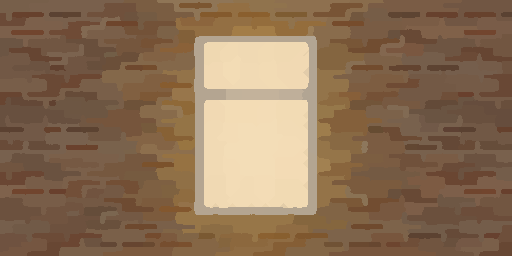
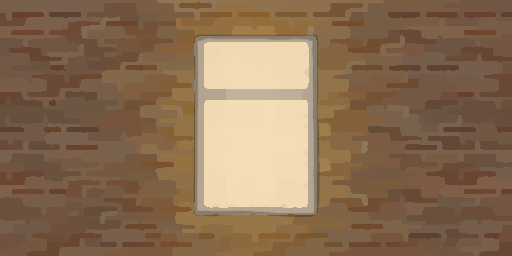
Dynamically placing roof tiles

Changed region(s): [[0.375, 0.125, 0.625, 0.8438]]

diff --git a/SFML Template 3.0.01(working)1/SFML Template 3.0.01(working)1/level.cpp b/SFML Template 3.0.01(working)1/SFML Template 3.0.01(working)1/level.cpp
@@ -5,14 +5,14 @@ static int levelTemplate[Level::Height][Level::Width] =
     { 0,0,0,0,0,0,0,0,0,0,0,0,0,0,0,0,0,0,0,0,0,0,0,0,0,0,0,0,0,0,0,0,0,0,0,0,0,0,0,0,0,0,0,0,0,0,0,0,0,0 },
     { 0,0,0,0,0,0,0,0,0,0,0,0,0,0,0,0,0,0,0,0,0,0,0,0,0,0,0,0,0,0,0,0,0,0,0,0,0,0,0,0,0,0,0,0,0,0,0,0,0,0 },
     { 0,0,0,0,0,0,0,0,0,0,0,0,0,0,0,0,0,0,0,0,0,0,0,0,0,0,0,0,0,0,0,0,0,0,0,0,0,0,0,0,0,0,0,0,0,0,0,0,0,0 },
-    { 0,0,0,0,0,0,0,0,2,2,3,2,2,3,2,2,0,2,2,3,2,3,3,2,2,0,0,0,0,0,0,0,0,0,0,0,0,0,0,0,0,0,0,0,0,0,0,0,0,0 },
-    { 0,0,0,0,0,0,0,0,2,2,3,2,2,3,2,2,0,2,2,3,2,2,3,2,2,2,3,2,2,3,2,0,0,0,0,0,0,0,0,0,0,0,0,0,0,0,0,0,0,0 },
+    { 0,0,0,0,0,0,0,0,2,2,3,2,2,3,2,2,0,2,2,3,2,3,3,2,2,0,0,0,0,0,0,0,0,0,0,2,2,3,2,2,3,2,2,0,0,0,0,0,0,0 },
+    { 0,0,0,0,0,0,0,0,2,2,3,2,2,3,2,2,0,2,2,3,2,2,3,2,2,2,3,2,2,3,2,0,0,0,0,2,2,3,3,2,3,2,2,0,0,0,0,0,0,0 },
     { 0,0,0,0,0,0,0,0,0,0,0,0,0,0,0,0,0,2,2,3,2,2,3,2,2,2,3,2,2,3,2,2,3,2,0,2,2,3,2,2,3,2,2,0,0,0,0,0,0,0 },
     { 1,1,1,1,1,1,1,1,1,1,1,1,1,1,1,1,1,1,1,1,1,1,3,2,2,2,3,2,2,3,2,2,3,2,0,2,2,3,2,2,3,2,2,0,0,0,0,0,0,0 },
     { 0,0,0,0,0,0,0,0,0,0,0,0,0,1,0,0,0,0,0,0,0,0,0,0,0,0,0,0,0,0,0,0,0,0,0,2,2,3,2,2,3,2,2,0,0,0,0,0,0,0 },
-    { 0,0,0,0,0,0,0,0,1,0,0,0,0,1,0,1,1,1,1,0,0,0,0,0,0,0,0,2,2,3,2,2,3,2,0,0,0,0,0,0,0,0,0,0,0,0,0,0,0,0 },
-    { 0,0,0,0,0,0,0,0,1,0,0,0,0,1,0,1,0,0,0,0,0,0,0,0,0,0,0,0,0,0,0,0,0,0,0,0,0,0,0,0,0,0,0,0,0,0,0,0,0,0 },
-    { 0,0,0,0,0,0,0,0,1,0,0,0,0,1,0,1,0,0,0,0,0,0,0,0,0,0,0,0,0,0,0,0,0,0,0,0,0,0,0,0,0,0,0,0,0,0,0,0,0,0 },
+    { 0,0,0,0,0,0,0,0,1,0,0,0,0,1,0,1,1,1,1,0,0,0,0,0,0,0,3,2,2,3,2,2,3,2,0,2,2,3,2,2,3,2,2,0,0,0,0,0,0,0 },
+    { 0,0,0,0,0,0,0,0,1,0,0,0,0,1,0,1,0,0,0,0,0,0,0,0,0,0,3,2,2,3,2,2,3,2,0,2,2,3,2,2,3,2,2,0,0,0,0,0,0,0 },
+    { 0,0,0,0,0,0,0,0,1,0,0,0,0,1,0,1,0,0,0,0,0,0,0,0,0,0,3,2,2,3,2,2,3,2,2,2,2,3,2,2,3,2,2,0,0,0,0,0,0,0 },
     { 0,0,0,0,0,0,0,0,0,0,0,0,0,1,0,1,0,0,0,0,0,0,0,0,0,0,0,0,0,0,0,0,0,0,0,0,0,0,0,0,0,0,0,0,0,0,0,0,0,0 },
     { 0,0,0,0,0,0,0,0,0,0,1,1,1,1,0,1,0,0,0,0,0,0,0,0,0,0,0,0,0,0,0,0,0,0,0,0,0,0,0,0,0,0,0,0,0,0,0,0,0,0 },
     { 0,0,0,0,0,0,1,1,1,0,0,0,0,0,0,1,0,0,0,0,0,0,0,0,0,0,0,0,0,0,0,0,0,0,0,0,0,0,0,0,0,0,0,0,0,0,0,0,0,0 },
@@ -45,6 +45,8 @@ void Level::setupTextures()
     platformTex.loadFromFile("ASSETS\\IMAGES\\Platform.png");
     houseWall.loadFromFile("ASSETS\\IMAGES\\brickWall.png");
     houseWindow.loadFromFile("ASSETS\\IMAGES\\brickWallWindow.png");
+    roofWindow.loadFromFile("ASSETS\\IMAGES\\RoofWallWindow.png");
+    roofWall.loadFromFile("ASSETS\\IMAGES\\RoofWall.png");
 
     railingTex.loadFromFile("ASSETS\\IMAGES\\Rail.png");
     lampPost.loadFromFile("ASSETS\\IMAGES\\lampPost.png");
@@ -122,7 +124,18 @@ void Level::load()
 
                 sf::Vector2f size(TileWidth, TileHeight);
 
-                tiles[y][x].setup(houseWall, pos, size);
+                if (y < 1)
+                {
+                    tiles[y][x].setup(roofWall, pos, size);
+                }
+                else if (levelData[y-1][x] == 0)
+                {
+                    tiles[y][x].setup(roofWall, pos, size);
+                }
+                else
+                {
+                    tiles[y][x].setup(houseWall, pos, size);
+                }
             }
             else if (levelData[y][x] == 3)
             {
@@ -130,7 +143,18 @@ void Level::load()
 
                 sf::Vector2f size(TileWidth, TileHeight);
 
-                tiles[y][x].setup(houseWindow, pos, size);
+                if (y < 1)
+                {
+                    tiles[y][x].setup(roofWindow, pos, size);
+                }
+                else if (levelData[y - 1][x] == 0)
+                {
+                    tiles[y][x].setup(roofWindow, pos, size);
+                }
+                else
+                {
+                    tiles[y][x].setup(houseWindow, pos, size);
+                }
             }
         }
     }

diff --git a/SFML Template 3.0.01(working)1/SFML Template 3.0.01(working)1/level.h b/SFML Template 3.0.01(working)1/SFML Template 3.0.01(working)1/level.h
@@ -28,6 +28,8 @@ private:
     sf::Texture platformTex;
     sf::Texture houseWall;
     sf::Texture houseWindow;
+    sf::Texture roofWall;
+    sf::Texture roofWindow;
 
     //background details
     sf::Texture railingTex;
